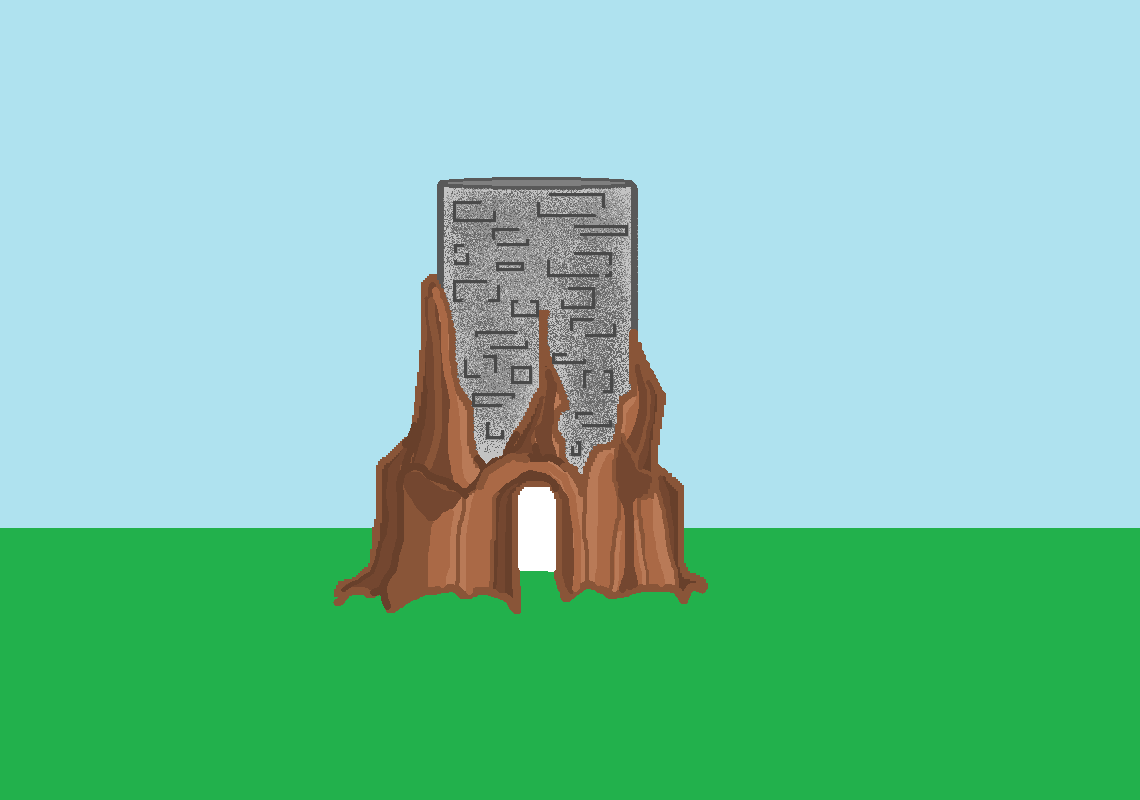
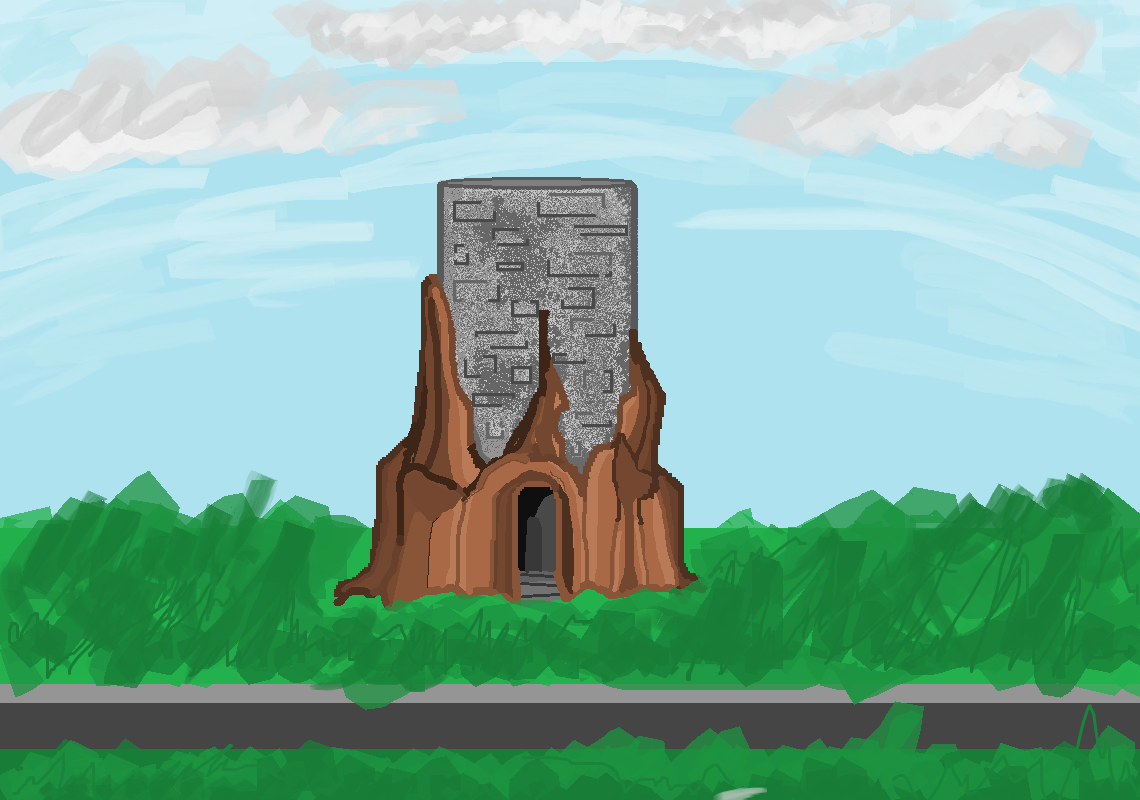
Image Adds + Code Edits
- Formatting Changes (indentations, etc.)
- Added lines for loading and rendering images
- Got background to render

diff --git a/Project Files/main.js b/Project Files/main.js
@@ -17,7 +17,7 @@ var boxLock, gameGoing, idlePlaying, conjPlaying; //Control Booleans
 var towerReg; //Regions
 var fladIdle1, fladIdle2, fladConjure, walk1, walk2, walk3; //Animations
 var walkers, boxes; // Arrays
-var backIMG;
+var back;
 
 var engine; //Matter.js Variables
 var world;
@@ -30,10 +30,15 @@ var Engine = Matter.Engine,
 
 
 function preLoad() {
-	backIMG = loadImage("data/background.png");
-	//Preload animations + sprites here.
+	//Fladnag
+	fladIdle1 = loadImage("data/anim/fladnag_idle_sheet.png"); 		// Main Idle Loop
+	fladIdle2 = loadImage("data/anim/fladnag_fidget1_sheet.png");	// Fidget Animation 1
+	// fladConjure = loadImage("data/anim/fladnag_conjure1_sheet.png"); // Conjure Animation 1
 
-	//loadAnimation(sprite);
+	// Walkers
+	// walk1 = loadImage("data/anim/walker1_sheet.png"); //Walker 1 Cycle
+	// walk2 = loadImage("data/anim/walker2_sheet.png"); //Walker 2 Cycle
+	// walk3 = loadImage("data/anim/walker3_sheet.png"); //Walker 3 Cycle
 
 	heyListen();
 }
@@ -66,7 +71,7 @@ function setup() {
     currentTime = 0.0; 	// Counts up to dayLength - currentt play session's length in seconds.
     currentScore = 0; 	// Keeps track of score.
     interBox = 2.0; 	// Buffer time in seconds between each box drop.
-		interBoxCheck = 0; //Will spawn a box when interBoxCheck == 0 if the mouse is pressed.
+	interBoxCheck = 0; //Will spawn a box when interBoxCheck == 0 if the mouse is pressed.
     walkerCount = 0;	// Keeps track of number of NPCs on screen.
     walkerMax = 10; 	// Max number of NPCs on screen at once.
     animTracker = 0.0; 	// Keeps track of idle time/tracks when to play an idle animation (in theory)
@@ -82,23 +87,25 @@ function setup() {
     //Gameplay Regions
     towerReg = createVector();
 
+    //Images
+    back = loadImage("data/background1.png"); //Background Image
 
     //Functions
     matterCheck();
 
-		engine = Engine.create(); //Matter.js setup
-	  world = engine.world;
-	  var options = {isStatic: true}//end of matter.js setup
+	engine = Engine.create(); //Matter.js setup
+	world = engine.world;
+	var options = {isStatic: true}//end of matter.js setup
 }
 
 function draw() {
-	background(0);
+	background(back, 100);
 
 	gameTimer();
 	gameControl();
 	gameMouse();
 	showboxes();
-  showWalker();
+  	showWalker();
 	boxTimer();
 
   if(boxes.length > 0 && walkers.length > 0){
@@ -231,11 +238,13 @@ function Walker(x, y, image) {
 
 function detectCollision(){
   for (var i = 0; i < boxes.length; i++){
+  		console.log("In detect");
     for (var j = 0; j < walkers.length; j++){
       if(boxes[i].positionX()-(boxes[i].w/2)> walkers[j].positionX()-(walkers[j].w/2)
       && boxes[i].positionX()+(boxes[i].w/2)< walkers[j].positionX()+(walkers[j].w/2)
       && boxes[i].positionY()-(boxes[i].h/2)> walkers[j].positionY()-(walkers[j].h/2)
       && boxes[i].positionY()+(boxes[i].h/2)< walkers[j].positionY()+(walkers[j].h/2)){
+      	console.log("Collision");
         walkers.splice(i, 1);
         j--;
       }

diff --git a/Project Files/css/myStyles.css b/Project Files/css/myStyles.css
@@ -1,0 +1,2 @@
+/* myStyles.css - Fladnag the Flatulent */
+
